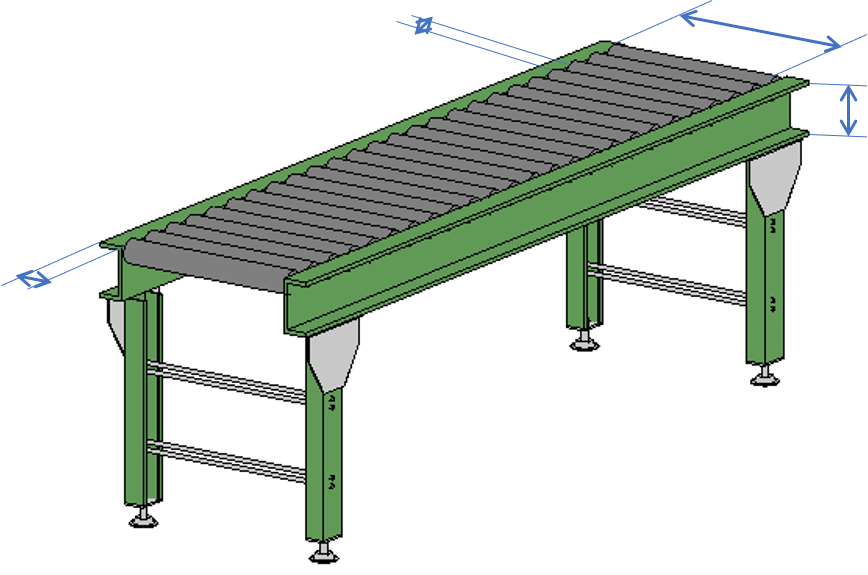
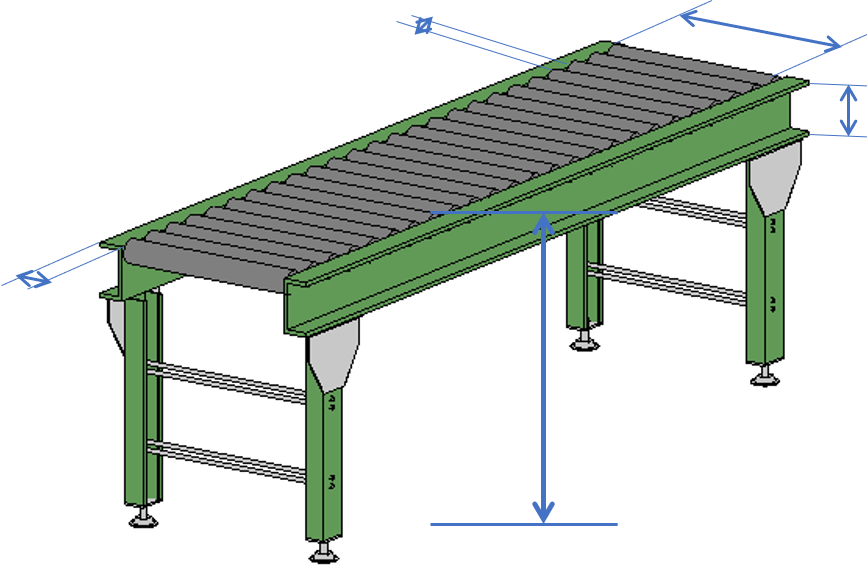
Add Rack tool

Changed region(s): [[0.4977, 0.3548, 0.7154, 0.9165]]

diff --git a/YagiTools.extension/YagiTools.tab/MaterialHandling.panel/Conveyor.pushbutton/ui.xaml b/YagiTools.extension/YagiTools.tab/MaterialHandling.panel/Conveyor.pushbutton/ui.xaml
@@ -1,7 +1,7 @@
 <Window xmlns="http://schemas.microsoft.com/winfx/2006/xaml/presentation"
         xmlns:x="http://schemas.microsoft.com/winfx/2006/xaml"
         xml:lang="ja-JP"
-        Width="600" Height="500" Title="Conveyor generator by YaGitHub" ShowInTaskbar="False" ResizeMode="NoResize" WindowStyle="ThreeDBorderWindow">
+        Width="600" Height="500" Title="Rack auto-placer by YaGitHub" ShowInTaskbar="False" ResizeMode="NoResize" WindowStyle="ThreeDBorderWindow">
     <StackPanel>
         <Label Content="★コンベヤプロパティの設定"/>
         <Grid Height="280" Margin="0,10,0,0">
@@ -24,15 +24,16 @@
                     <DropShadowEffect BlurRadius="2" ShadowDepth="2" Color="#FF787878"/>
                 </TextBox.Effect>
             </TextBox>
+            <Label Content="搬送高さ" Margin="339,192,186,62"/>
+            <TextBox x:Name="conveyor_height" HorizontalAlignment="Left" Height="18" Margin="397,196,0,0" TextWrapping="Wrap" Text="700" VerticalAlignment="Top" Width="30" TextAlignment="Right">
+                <TextBox.Effect>
+                    <DropShadowEffect BlurRadius="2" ShadowDepth="2" Color="#FF787878"/>
+                </TextBox.Effect>
+            </TextBox>
         </Grid>
-        <Label Content="★コンベヤパスの選択（モデル線分グループ）"/>
+        <Label Content="★選択中モデル線分グループ"/>
         <Grid Height="30" Margin="0,10,0,0">
-            <Button Content="Pick" Margin="37,0,491,0" Height="20">
-                <Button.Effect>
-                    <DropShadowEffect BlurRadius="2" Color="#FF787878" ShadowDepth="2"/>
-                </Button.Effect>
-            </Button>
-            <TextBlock HorizontalAlignment="Left" Margin="115,5,0,0" TextWrapping="Wrap" Text="Pick Model Lines Group" VerticalAlignment="Top" Height="20" Width="444" Background="GhostWhite">
+            <TextBlock x:Name="selected_model_group" HorizontalAlignment="Left" Margin="44,5,0,0" TextWrapping="Wrap" Text="Pick Model Lines Group" VerticalAlignment="Top" Height="20" Width="515" Background="GhostWhite">
                 <TextBlock.Effect>
                     <DropShadowEffect Color="#FF787878" BlurRadius="2" ShadowDepth="2"/>
                 </TextBlock.Effect>

diff --git a/YagiTools.extension/YagiTools.tab/MaterialHandling.panel/Conveyor.pushbutton/script.py b/YagiTools.extension/YagiTools.tab/MaterialHandling.panel/Conveyor.pushbutton/script.py
@@ -15,6 +15,8 @@ import wpf
 from System import *
 from System.Windows import *
 
+import math
+
 #symbols = db.Collector(of_category="OST_Furniture", is_type=True)
 
 uiapp = __revit__ # noqa F821
@@ -24,6 +26,16 @@ doc = uidoc.Document
 
 straightConveyorName = "直線ローラーコンベヤ"
 curveConveyorName = "曲線ローラーコンベヤ"
+
+def getRotateAngle(direction):
+    stdVec = DB.XYZ(0,-1,0)
+    cross = stdVec.CrossProduct(direction)
+    relAngle = stdVec.AngleTo(direction)
+    if cross[2] > 0:
+        return relAngle
+    else:
+        return 2*math.pi-relAngle
+
 
 class RevitOperator():
     def __init__(self):
@@ -41,8 +53,10 @@ class RevitOperator():
                 temp_count+=1
         if temp_count == 0:
             UI.TaskDialog.Show("ファミリエラー","コンベヤファミリがプロジェクトにロードされていないため，実行できません。")
-        UI.TaskDialog.Show("temp","{}".format(temp_count))
-
+    
+    #
+    # Transaction control #
+    #
     def startTransaction(self,tname):
         #Generate transaction and start it
         self.transaction = db.Transaction(tname)
@@ -52,36 +66,126 @@ class RevitOperator():
         #End transaction
         self.transaction.Commit()
 
-    def generateStraightConveyorInstance(self, lev, start_point, end_point, height=700):
+    #
+    # Process #
+    #
+    def getStartDirectionLengthLevelFromLine(self,modelLine):
+        # find start point XYZ
+        location = modelLine.Location
+        line = location.Curve
+        start = line.Origin
+        start = DB.XYZ(start.X,start.Y,0)
+
+        #find direction XYZ
+        direction = line.Direction
+
+        # find length double
+        length = line.Length
+
+        # find level
+        sketchPlane = modelLine.SketchPlane
+        levs = db.Collector(of_category="OST_Levels",is_not_type=True)
+        level = 0
+        for lev in levs:
+            if lev.Name == sketchPlane.Name:
+                level = lev
+
+
+        return start,direction,length,level
+    #
+    # Control Revit #
+    #
+    def generateStraightConveyorInstance(self, level, start_point, direction, length, height=700):
         #create a new straight conveyor
-        direction = end_point-start_point
-        newInst = doc.Create.NewFamilyInstance(start_point, self.straightConveyorFamilySymbol, lev, DB.Structure.StructuralType.NonStructural)
+        newInst = doc.Create.NewFamilyInstance(start_point, self.straightConveyorFamilySymbol, level, DB.Structure.StructuralType.NonStructural)
         
         #set height and length of conveyor
+        pl = newInst.LookupParameter("搬送長さ")
+        pl.Set(length)
+        ph = newInst.LookupParameter("搬送高さ")
+        ph.Set(height)
 
+        # rotate conveyor 
+        p1 = DB.XYZ(start_point.X, start_point.Y, start_point.Z)
+        p2 = DB.XYZ(start_point.X, start_point.Y, start_point.Z+1)
+        axis = DB.Line.CreateBound(p1,p2)
+        ang = getRotateAngle(direction)
+        DB.ElementTransformUtils.RotateElement(doc, newInst.Id, axis, ang)
 
 
 class AppWindow(Window):
-    def __init__(self):
+    def __init__(self, selectedElements):
         wpf.LoadComponent(self, xamlfile)
+        self.selectedElements = selectedElements
         self.revit_operator = RevitOperator()
+        text = ""
+        for elem in self.selectedElements:
+            text += elem.Id.ToString()
+            text += " / "
+        self.selected_model_group.Text = text
 
     @property
     def i_conveyor_width(self):
         return self.conveyor_width.Text
 
+    @property
+    def i_conveyor_height(self):
+        t_height = self.conveyor_height.Text
+        return float(t_height)
+
     def genConv(self, sender, args):
-        lev =doc.GetElement("49173")
         self.revit_operator.startTransaction("Create conveyor")
-        self.revit_operator.generateStraightConveyorInstance(lev,DB.XYZ(0,0,0), DB.XYZ(5,0,0))
+
+        for elem in self.selectedElements:
+            st,dir,len,level = self.revit_operator.getStartDirectionLengthLevelFromLine(elem)
+            self.revit_operator.generateStraightConveyorInstance(level, st, dir, len, self.i_conveyor_height/304.8)
+        
         self.revit_operator.endTransaction()
 
+class CustomISelectionFilter(UI.Selection.ISelectionFilter):
+    def __init__(self, nom_class):
+        self.nom_class = nom_class
+
+    def AllowElement(self, e):
+        if isinstance(e, self.nom_class):
+            return True
+        else:
+            return False
 
 def main():
+    #モデル線分グループの選択
+    selectedElementRefs = uidoc.Selection.PickObjects(
+        UI.Selection.ObjectType.Element,
+        CustomISelectionFilter(DB.ModelLine),
+        "Pick ModelLines")
+    
+    selectedElements = map(lambda x:doc.GetElement(x.ElementId),selectedElementRefs)
+
     #windowの表示
-    app_window = AppWindow()
+    app_window = AppWindow(selectedElements)
     app_window.ShowDialog()
+
+    
 
 
 if __name__ == "__main__":
     main()
+
+
+## memo ##
+#　バグ
+
+#ウィンドウを隠してPickさせるやつ↓
+"""
+def shell_pickobject():
+    __window__.Hide() 
+    elementReference = uidoc.Selection.PickObject(UI.Selection.ObjectType.Element,spaceFilter,"Select a space(room)") 
+    __window__.Show()
+    __window__.TopMost = True
+    return elementReference
+"""
+
+#　やること
+#タイプの既存判定
+#タイプの新規作成
+#曲線対応
